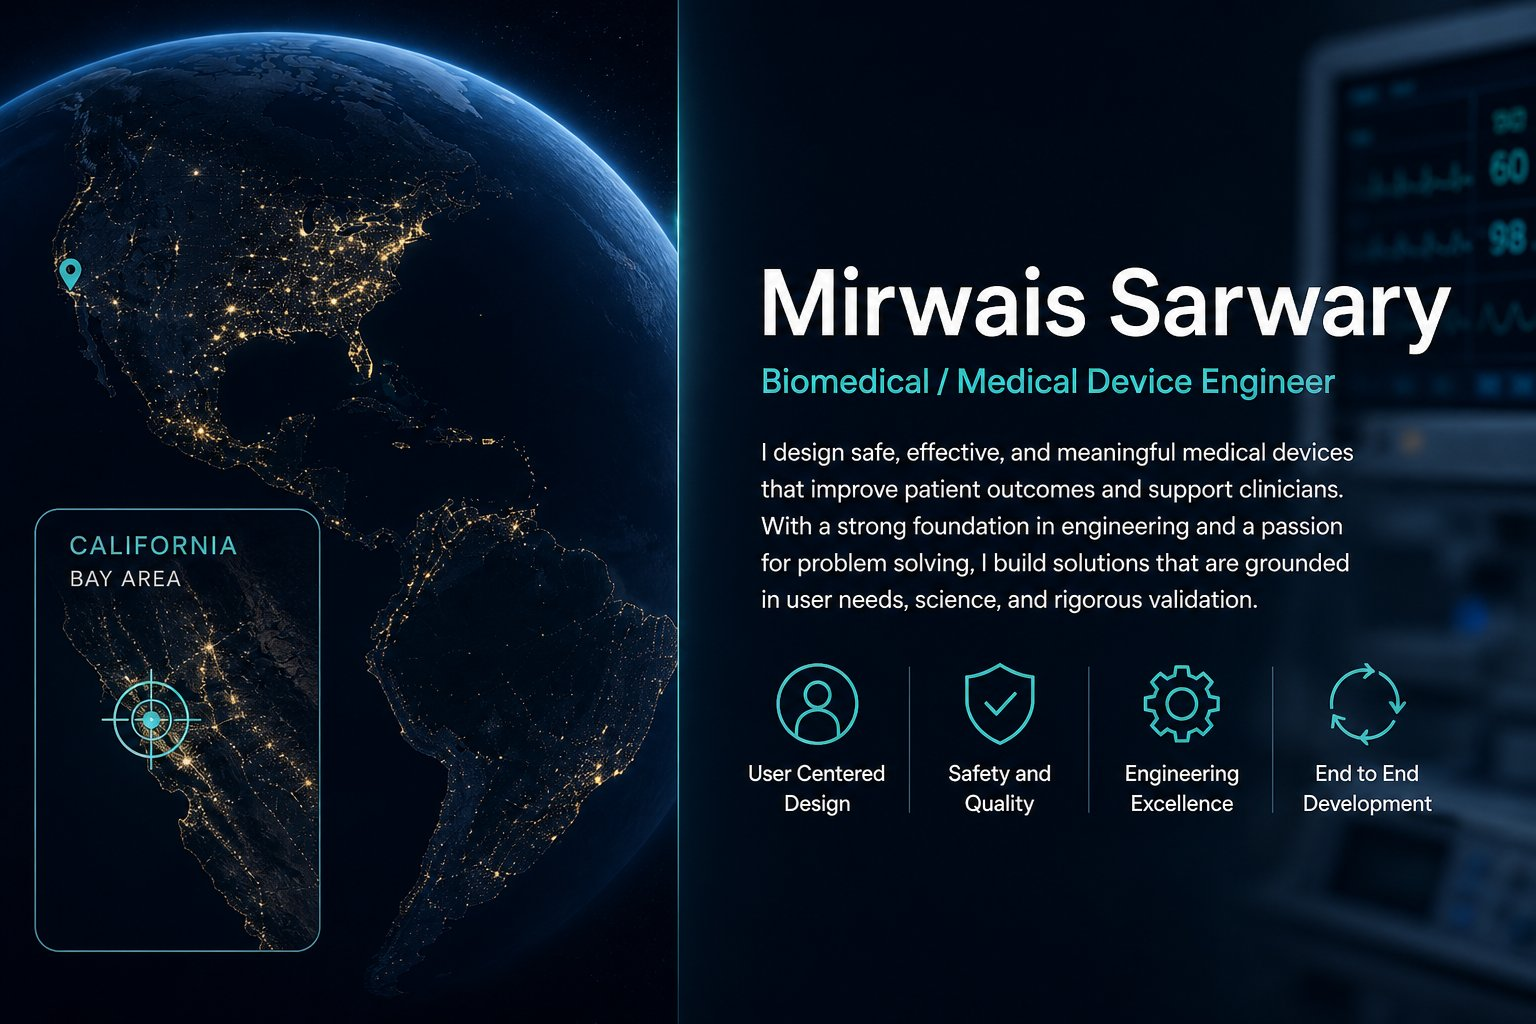
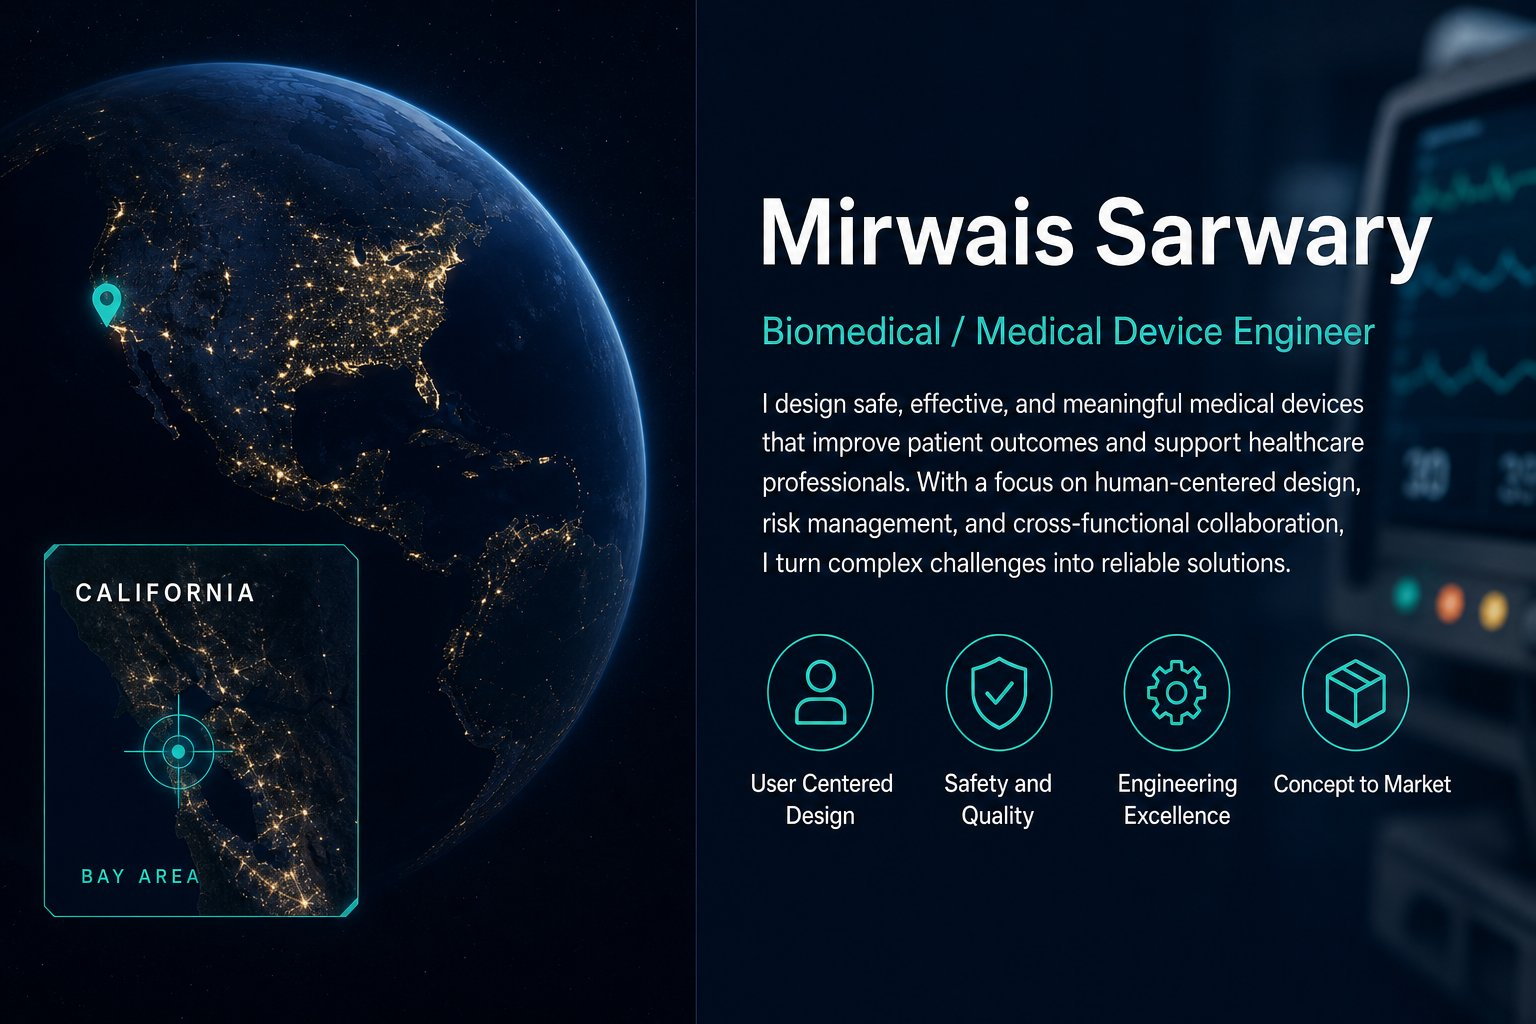
Frame 3: Concept to Market instead of End to End

diff --git a/css/portfolio_style.css b/css/portfolio_style.css
@@ -1352,11 +1352,11 @@ body.Intro_Active {
     background-color: #000;
 }
 .Intro_Stage_Bg--Zoom {
-    background-image: url("../images/intro/zoom.jpg?v=earth6");
+    background-image: url("../images/intro/zoom.jpg?v=earth7");
 }
 .Intro_Stage_Bg--Transition {
     /* Frame 3 storyboard: California/Bay Area + Quiet Medtech hero */
-    background-image: url("../images/intro/transition-hero.jpg?v=earth6");
+    background-image: url("../images/intro/transition-hero.jpg?v=earth7");
 }
 
 /* Panel and gate sit above the video */
@@ -1396,15 +1396,15 @@ body.Intro_Active {
         display: none !important;
     }
     .Intro_Stage_Bg--Gate {
-        background-image: url("../images/intro/gate.jpg?v=earth6");
+        background-image: url("../images/intro/gate.jpg?v=earth7");
         background-color: #0b1220;
     }
     .Intro_Stage_Bg--Found {
-        background-image: url("../images/intro/found.jpg?v=earth6");
+        background-image: url("../images/intro/found.jpg?v=earth7");
         background-color: #0b1220;
     }
     .Intro_Stage_Bg--Zoom {
-        background-image: url("../images/intro/zoom.jpg?v=earth6");
+        background-image: url("../images/intro/zoom.jpg?v=earth7");
     }
     .Intro_Status--Flash {
         animation: none;

diff --git a/index.html b/index.html
@@ -7,8 +7,8 @@
     <meta name="viewport" content="width=device-width, initial-scale=1.0">
     <meta name="description" content="Mirwais Sarwary — biomedical / medical-device engineer. R&D, robotics-adjacent systems, and practical software (C#/.NET, Python).">
     <title>Mirwais Sarwary | Biomedical / Medical Device Engineer</title>
-    <link rel="stylesheet" href="./css/portfolio_style.css?v=earth6">
-    <script src="./js/portfolio_JS.js?v=earth6" defer></script>
+    <link rel="stylesheet" href="./css/portfolio_style.css?v=earth7">
+    <script src="./js/portfolio_JS.js?v=earth7" defer></script>
 </head>
 <body class="Background Intro_Active">
 
